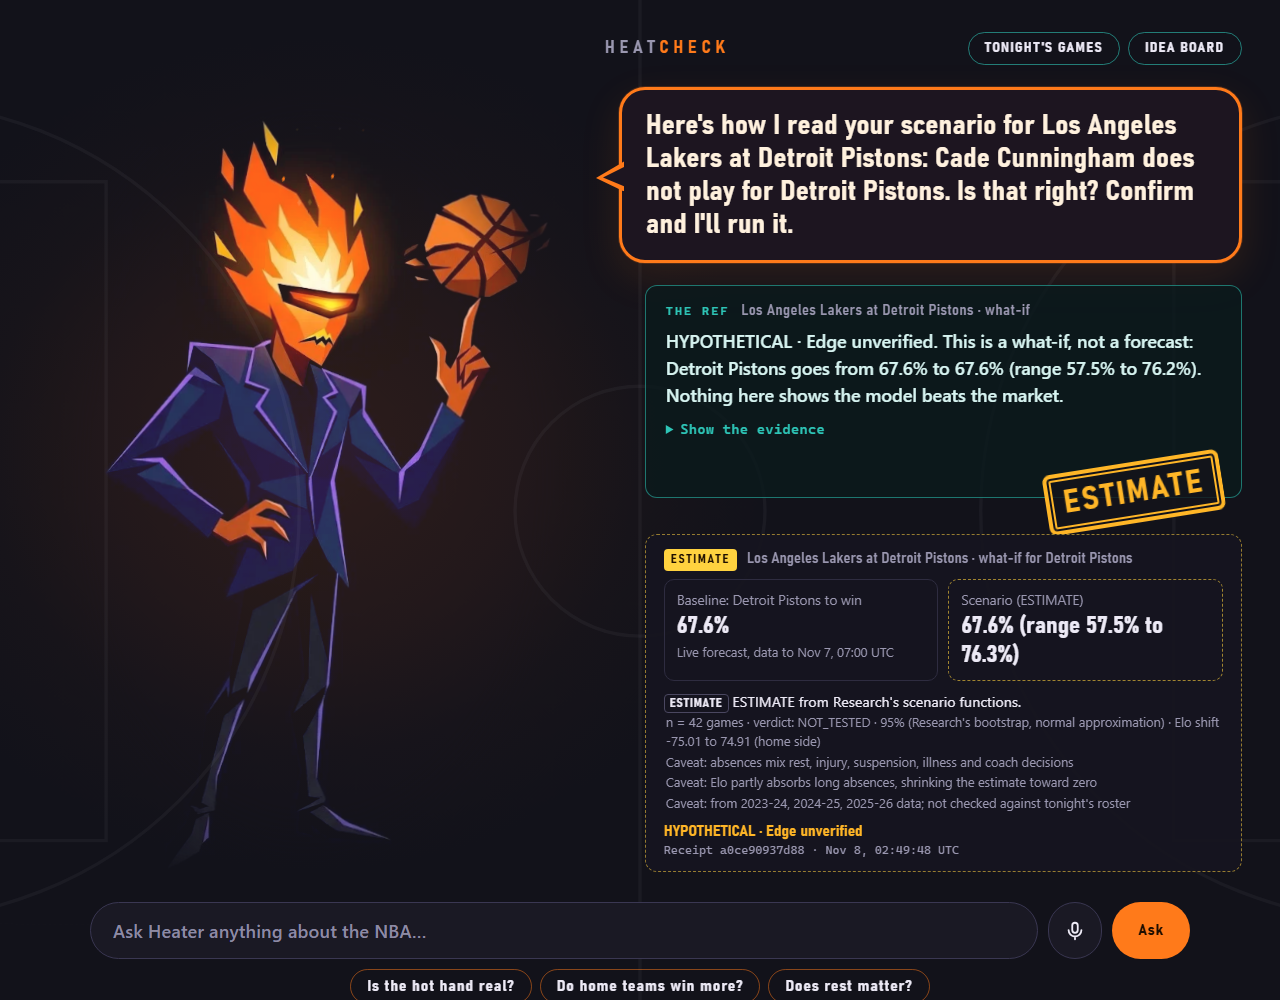
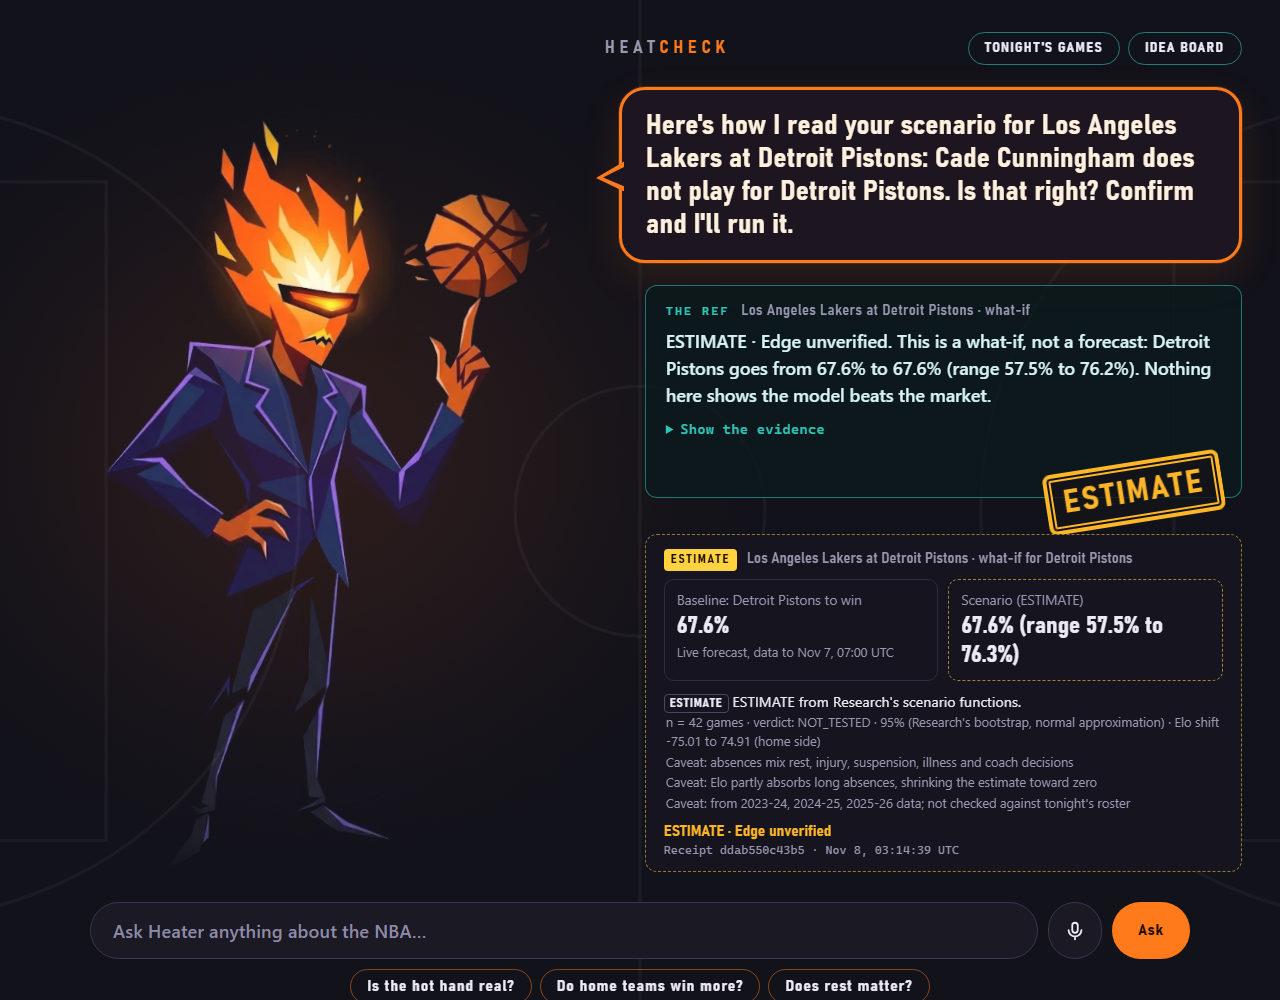
What-if badge, verdict and Ref line use the stamp's word; drop HYPOTHETICAL; add number_source
- Verdict is "<STAMP> · Edge unverified" (ESTIMATE / YOUR ASSUMPTION / SAMPLE / NO NUMBER) and the
  Ref line starts with it; the panel badge, scenario label and drawer label use the same word.
  "HYPOTHETICAL" no longer appears in the what-if panel or Ref line (CSS class names aside).
- A user's market price: shown as "Your market price", effect label YOUR ASSUMPTION; Elo model
  recalculation: effect label ESTIMATE. Read-back before confirmation is badged CONFIRM (no number).
  API field names unchanged (hypothetical_price, HYPOTHETICAL_PRICE effect type).
- API adds number_source "DATA" | "USER" | null; the page shows the server's stamp and shows NO
  NUMBER if stamp and number_source disagree. Ledger identity records stamp and number_source.
- Browser (demo --no-llm --recorded-market): own-box player-out ESTIMATE/DATA; typed 5% assumption
  YOUR ASSUMPTION/USER; neutral floor ESTIMATE/DATA; typed 30% price YOUR ASSUMPTION/USER. Page
  stamp = panel badge = API stamp in all four; no HYPOTHETICAL in any Ref line; console empty.
- SCENARIO_EFFECTS_CONTRACT: wording section (supersedes the old verdict wording in Research's §5).
- Checks: scaffold PASS; ruff; pytest 652 passed, 29 skipped, 16 xfailed; apps/web unittest OK; node 79.

Changed region(s): [[0.5, 0.31, 0.9375, 0.403], [0.5312, 0.806, 0.6875, 0.868]]

diff --git a/apps/web/web/whatif/whatif.js b/apps/web/web/whatif/whatif.js
@@ -34,10 +34,10 @@ export function confirmBody(it) {
 const pct = (p) => `${(Math.round(Number(p) * 1000) / 10).toFixed(1)}%`;
 
 export const TYPE_LABEL = {
-  MODEL_RECALC: "MODEL RECALCULATED",
+  MODEL_RECALC: "ESTIMATE",  // the forecast's own Elo model, recalculated: a number from data
   ESTIMATE: "ESTIMATE",
   YOUR_ASSUMPTION: "YOUR ASSUMPTION",
-  HYPOTHETICAL_PRICE: "HYPOTHETICAL PRICE",
+  HYPOTHETICAL_PRICE: "YOUR ASSUMPTION",  // a market price the user supplied
   NO_NUMBER: "NO NUMBER",
   FAILED_TEST: "FAILED OUR TEST",
 };
@@ -46,8 +46,11 @@ export const TYPE_LABEL = {
  *  data, YOUR ASSUMPTION when it depends on a number the user supplied, SAMPLE, or NO NUMBER. The page never
  *  decides it; an answer without a known stamp shows NO NUMBER. */
 export const STAMPS = { ESTIMATE: "insufficient", "YOUR ASSUMPTION": "insufficient", SAMPLE: "blocked", "NO NUMBER": "blocked" };
+const SOURCE_STAMP = { DATA: "ESTIMATE", USER: "YOUR ASSUMPTION" };
 export function whatifStamp(est) {
-  const text = Object.hasOwn(STAMPS, est?.stamp) ? est.stamp : "NO NUMBER";
+  let text = Object.hasOwn(STAMPS, est?.stamp) ? est.stamp : "NO NUMBER";
+  // The server also says where the number comes from; if the two ever disagree, show no number.
+  if (est && "number_source" in est && SOURCE_STAMP[est.number_source] && SOURCE_STAMP[est.number_source] !== text) text = "NO NUMBER";
   return { text, kind: STAMPS[text] };
 }
 
@@ -83,7 +86,7 @@ export function scenarioView(est) {
     baselineNote: est.baseline ? `Live forecast, data to ${fmtUtc(est.baseline.data_cutoff_utc)}` : (est.sample_note || ""),
     scenarioLabel: `Scenario (${whatifStamp(est).text})`,
     scenario: scen,
-    price: est.hypothetical_price != null ? `Hypothetical market price: ${pct(est.hypothetical_price)}` : "",
+    price: est.hypothetical_price != null ? `Your market price: ${pct(est.hypothetical_price)}` : "",
     effects,
     flags,
     verdict: est.verdict,
@@ -103,7 +106,7 @@ export function renderInterpretation(root, it, { onConfirm, onCancel } = {}) {
   root.replaceChildren();
   root.hidden = false;
   const head = el("header", "scn-head");
-  head.append(el("span", "scn-badge", "HYPOTHETICAL"), el("span", "scn-title", `${it.game} · how Heater read it`));
+  head.append(el("span", "scn-badge", "CONFIRM"), el("span", "scn-title", `${it.game} · how Heater read it`));
   root.append(head);
   const ul = el("ul", "scn-list");
   for (const line of it.interpretation || []) ul.append(el("li", "", line));

diff --git a/apps/web/web/demo.js b/apps/web/web/demo.js
@@ -565,7 +565,7 @@ async function runScenario(question, gameId) {
   });
 }
 
-/** After confirmation: the Ref runs it; baseline vs scenario side by side, marked HYPOTHETICAL. */
+/** After confirmation: the Ref runs it; baseline vs scenario side by side, marked with the server's stamp. */
 async function runEstimate(it) {
   if (state.busy) return;
   state.busy = true;

diff --git a/heatcheck/agents/scenario.py b/heatcheck/agents/scenario.py
@@ -24,7 +24,8 @@ Scenario flow:
    - MARKET_PRICE is a hypothetical market price; it changes the comparison, not the forecast.
    Effects that failed Research's tests are shown with that verdict and left out of the total.
    The Challenger checks double counting, sample size and staleness. The Ref verdict is always
-   "HYPOTHETICAL · Edge unverified": a scenario is never evidence that the model beats the market.
+   "<STAMP> · Edge unverified" (STAMP = ESTIMATE / YOUR ASSUMPTION / SAMPLE / NO NUMBER): a scenario is
+   never evidence that the model beats the market.
 """
 
 from __future__ import annotations
@@ -41,7 +42,15 @@ FORMAT = "heatcheck-whatif/1"           # Max's free-text what-if (POST /api/sce
 MENU_FORMAT = "heatcheck-scenario/1"    # Experience's per-game scenario list (GET /api/scenario), adopted
 PROTOCOL_VERSION = "scenario-1"
 LANE = "SCENARIO"
-VERDICT = "HYPOTHETICAL · Edge unverified"
+EDGE = "Edge unverified"
+
+
+def verdict_for(stamp: str) -> str:
+    """The Ref's verdict uses the stamp's own word: "ESTIMATE · Edge unverified" etc."""
+    return f"{stamp} · {EDGE}"
+
+
+VERDICT = verdict_for("ESTIMATE")  # preset menu scenarios: always Research's data
 HOME_COURT_ELO = 100.0  # B1 Elo constant, stated in the live forecast's model text
 Z95 = 1.959963984540054  # same constant as Research's combiner
 MIN_N = 30              # same floor as the hot-hand comparison: below this a sample is "small"
@@ -301,7 +310,7 @@ def parse_changes(message: str, row: dict | None) -> list[dict]:
 def describe_change(c: dict, row: dict) -> str:
     team = c.get("team")
     if c["kind"] == "MARKET_PRICE":
-        return f"The market prices {team or row['home_team']} at {c['price'] * 100:.1f}% (a hypothetical price)."
+        return f"The market prices {team or row['home_team']} at {c['price'] * 100:.1f}% (your price)."
     if c["kind"] == "VENUE_NEUTRAL":
         return "The game is played on a neutral floor: no home court."
     if c["kind"] == "HOME_AWAY_SWAP":
@@ -356,7 +365,7 @@ def parse_scenario(message: str, row: dict, forecast_sha256: str) -> dict:
             "forecast_sha256": forecast_sha256, "changes": changes, "interpretation": lines,
             "interpretation_id": interpretation_id(row["game_id"], forecast_sha256, changes, focus),
             "message_sha256": hashlib.sha256(message.encode("utf-8")).hexdigest(),
-            "heater_text": heater, "label": "HYPOTHETICAL"}
+            "heater_text": heater, "label": "READ_BACK"}
 
 
 class ConfirmationError(ValueError):
@@ -573,7 +582,7 @@ def estimate_scenario(changes: list[dict], row: dict, forecast_doc: dict, is_sam
         team = c.get("team") or focus
         tsign = 1.0 if team == home else -1.0
         if k == "MARKET_PRICE":
-            effects.append(Effect(c, "HYPOTHETICAL_PRICE", f"Hypothetical market price {_pct(c['price'])} for "
+            effects.append(Effect(c, "HYPOTHETICAL_PRICE", f"Your market price {_pct(c['price'])} for "
                                   f"{c.get('team') or focus}; it changes the comparison, not the forecast.",
                                   included=can_number))
         elif k in ("VENUE_NEUTRAL", "HOME_AWAY_SWAP"):
@@ -676,11 +685,14 @@ def estimate_scenario(changes: list[dict], row: dict, forecast_doc: dict, is_sam
     model_changes = [e for e in effects if e.kind_label != "HYPOTHETICAL_PRICE"]
     if scen is None and not reasons and model_changes:
         reasons = ["none of these changes can be quantified with the current model"]
-    ref = VERDICT + ". "
+    eff_dicts = [e.as_dict() for e in effects]
+    source = number_source(eff_dicts, scen, is_sample)
+    stamp = stamp_for(eff_dicts, scen, is_sample)
+    ref = verdict_for(stamp) + ". "
     shown = scen["p"] if scen is not None else baseline
     if price is not None and not reasons:
         rel = "above" if shown > price else "below" if shown < price else "level with"
-        ref += (f"Against a hypothetical market price of {_pct(price)}, the "
+        ref += (f"Against your market price of {_pct(price)}, the "
                 f"{'scenario' if scen is not None else 'unchanged forecast'} for {focus} sits "
                 f"{abs(shown - price) * 100:.1f} points {rel} it. ")
     if scen is not None:
@@ -694,19 +706,30 @@ def estimate_scenario(changes: list[dict], row: dict, forecast_doc: dict, is_sam
         ref += "Watch out: " + "; ".join(flags) + ". "
     ref += "Nothing here shows the model beats the market."
     return {
-        "format": FORMAT, "label": "HYPOTHETICAL", "game_id": row["game_id"], "game": _game_label(row),
+        "format": FORMAT, "label": stamp, "game_id": row["game_id"], "game": _game_label(row),
         "focus_team": focus, "as_of_utc": as_of_utc, "is_sample": is_sample,
         "baseline": None if is_sample else {"p": round(baseline, 4), "source": "live forecast",
                                             "data_cutoff_utc": forecast_doc["data_cutoff_utc"]},
         "scenario": scen, "hypothetical_price": price,
         "effects": [e.as_dict() for e in effects], "challenger_checks": [c.as_dict() for c in checks],
-        "verdict": VERDICT, "ref_text": ref.strip(), "sample_note": sample_note,
+        "verdict": verdict_for(stamp), "ref_text": ref.strip(), "sample_note": sample_note,
         "provider": provider.identity,
-        "stamp": stamp_for([e.as_dict() for e in effects], scen, is_sample),
+        "stamp": stamp, "number_source": source,
     }
 
 
 USER_SUPPLIED = ("YOUR_ASSUMPTION", "HYPOTHETICAL_PRICE")
+
+
+def number_source(effects: list[dict], scenario: dict | None, is_sample: bool) -> str | None:
+    """Where the shown number comes from: "USER" when it depends on any number the user supplied
+    (their own adjustment or a market price), "DATA" when only on data (Research's estimates or the
+    Elo model), None for a SAMPLE forecast or when there is no number."""
+    if is_sample:
+        return None
+    if any(e["type"] in USER_SUPPLIED and e["included"] for e in effects):
+        return "USER"
+    return "DATA" if scenario is not None else None
 
 
 def stamp_for(effects: list[dict], scenario: dict | None, is_sample: bool) -> str:
@@ -717,9 +740,8 @@ def stamp_for(effects: list[dict], scenario: dict | None, is_sample: bool) -> st
     NO NUMBER when nothing could be quantified."""
     if is_sample:
         return "SAMPLE"
-    if any(e["type"] in USER_SUPPLIED and e["included"] for e in effects):
-        return "YOUR ASSUMPTION"
-    return "ESTIMATE" if scenario is not None else "NO NUMBER"
+    return {"USER": "YOUR ASSUMPTION", "DATA": "ESTIMATE"}.get(number_source(effects, scenario, False),
+                                                                "NO NUMBER")
 
 
 def scenario_identity(est: dict, changes: list[dict], interp_id: str, forecast_sha256: str,
@@ -732,7 +754,7 @@ def scenario_identity(est: dict, changes: list[dict], interp_id: str, forecast_s
             "scenario": est["scenario"], "hypothetical_price": est["hypothetical_price"],
             "effects": est["effects"], "challenger_checks": est["challenger_checks"],
             "provider": est["provider"], "referee": REF_IDENTITY, "verdict": est["verdict"],
-            "label": "HYPOTHETICAL", "outcome": None}
+            "label": est["stamp"], "number_source": est["number_source"], "outcome": None}
 
 
 # ------------------------------------------------------------------ GET /api/scenario (heatcheck-scenario/1)

diff --git a/reports/max/2026-11-08-scenarios-routing/stamps/shoot_stamps3.py b/reports/max/2026-11-08-scenarios-routing/stamps/shoot_stamps3.py
@@ -1,0 +1,73 @@
+import json
+import sys
+from pathlib import Path
+
+from playwright.sync_api import sync_playwright
+
+out = Path(sys.argv[1])
+out.mkdir(parents=True, exist_ok=True)
+DONE = "() => document.body.dataset.phase === 'done'"
+NOT_DONE = "() => document.body.dataset.phase !== 'done'"
+URL = "http://127.0.0.1:8765/demo.html?voice=0"
+
+
+def confirm_and_read(page, tag, api):
+    page.wait_for_function(DONE, timeout=90000)
+    page.get_by_role("button", name="Yes").first.click()
+    page.wait_for_function(NOT_DONE, timeout=30000)
+    page.wait_for_function(DONE, timeout=90000)
+    page.wait_for_timeout(1200)
+    page.screenshot(path=str(out / f"{tag}.png"))
+    stamp = page.locator("#stamp").inner_text() if page.locator("#stamp").is_visible() else "(none)"
+    badge = page.locator(".scn-badge").last.inner_text()
+    server = api[-1]["stamp"] if api else "(no response)"
+    ref = page.locator("#ref-text").inner_text()
+    print(f"{tag}: page stamp {stamp!r}, panel badge {badge!r}, API stamp {server!r}, source {api[-1].get('number_source') if api else None!r}")
+    print(f"   REF {ref[:120]!r}  HYPOTHETICAL-in-ref={'HYPOTHETICAL' in ref.upper()}")
+    return stamp, badge, server
+
+
+with sync_playwright() as p:
+    b = p.chromium.launch()
+    page = b.new_page(viewport={"width": 1280, "height": 1000})
+    console, api = [], []
+    page.on("console", lambda m: console.append(m.text))
+    page.on("pageerror", lambda e: console.append(f"PAGEERROR {e}"))
+
+    def on_resp(r):
+        if r.url.endswith("/api/scenario/estimate") and r.status == 200:
+            api.append(json.loads(r.text()))
+    page.on("response", on_resp)
+    results = []
+
+    # 1. Experience's "Your own scenario" box on the Detroit card: data -> ESTIMATE
+    page.goto(URL, wait_until="networkidle")
+    page.locator("#btn-board").click()
+    page.wait_for_selector(".mcard .mcard-verdict", timeout=90000)
+    card = page.locator(".mcard").filter(has_text="Detroit Pistons").first
+    card.get_by_role("button", name="What if").first.click()
+    card.locator(".scen-own-input").wait_for(timeout=30000)
+    card.locator(".scen-own-input").fill("What if Detroit were without Cade Cunningham?")
+    card.locator(".scen-own-go").click()
+    results.append(confirm_and_read(page, "own_box_player_out", api))
+
+    # 2. typed in the main box, user's number -> YOUR ASSUMPTION
+    page.goto(URL, wait_until="networkidle")
+    page.locator("#q").fill("Assume it costs Boston 5%")
+    page.locator("#go").click()
+    results.append(confirm_and_read(page, "typed_assumption", api))
+
+    # 3. typed, Elo model -> ESTIMATE
+    page.goto(URL, wait_until="networkidle")
+    page.locator("#q").fill("What if Boston and Milwaukee played on a neutral floor?")
+    page.locator("#go").click()
+    results.append(confirm_and_read(page, "typed_neutral", api))
+
+    page.goto(URL, wait_until="networkidle")
+    page.locator("#q").fill("What if the Lakers were priced at 30% on Polymarket?")
+    page.locator("#go").click()
+    results.append(confirm_and_read(page, "typed_price", api))
+
+    print("AGREE", all(s == bd == sv for s, bd, sv in results))
+    print("CONSOLE", console)
+    b.close()

diff --git a/tests/integration/test_scenario.py b/tests/integration/test_scenario.py
@@ -29,6 +29,7 @@ from heatcheck.agents.scenario import (
     parse_changes,
     parse_scenario,
     route,
+    verdict_for,
 )
 from heatcheck.api.dialogue_server import ScenarioConfig, serve
 from heatcheck.ledger.evidence import EvidenceLedger
@@ -100,7 +101,7 @@ def test_parse_each_kind():
 
 def test_interpretation_needs_confirmation_and_shows_no_number():
     it = parse_scenario("What if Cleveland played on a neutral floor?", G["191"], SHA)
-    assert it["status"] == "NEEDS_CONFIRMATION" and it["label"] == "HYPOTHETICAL"
+    assert it["status"] == "NEEDS_CONFIRMATION" and it["label"] == "READ_BACK"
     assert it["interpretation"] == ["The game is played on a neutral floor: no home court."]
     assert "%" not in it["heater_text"] and "Confirm" in it["heater_text"]
     assert parse_scenario("tell me a story", G["191"], SHA)["status"] == "NO_CHANGES"
@@ -194,7 +195,7 @@ def test_stub_gives_no_number_for_player_out_and_rest():
     e = est("Cleveland without Donovan Mitchell", G["191"])
     assert e["scenario"] is None and e["effects"][0]["type"] == "NO_NUMBER"
     assert "Can't quantify this with the current model; it would need" in e["effects"][0]["text"]
-    assert e["provider"]["version"] == "STUB" and e["verdict"] == VERDICT
+    assert e["provider"]["version"] == "STUB" and e["verdict"] == verdict_for("NO NUMBER")
 
 
 class FakeResearch(ResearchStub):
@@ -262,7 +263,9 @@ def test_forecast_staleness_flag():
 def test_ref_never_claims_an_edge_or_a_bet(msg):
     row = route(msg, GAMES, NOW)["game_id"]
     e = est(msg, next(g for g in GAMES if g["game_id"] == row))
-    assert e["ref_text"].startswith(VERDICT) and e["label"] == "HYPOTHETICAL"
+    assert e["ref_text"].startswith(verdict_for(e["stamp"])) and e["label"] == e["stamp"]
+    assert "HYPOTHETICAL" not in e["ref_text"].upper() and e["verdict"].endswith("Edge unverified")
+    assert e["number_source"] == {"ESTIMATE": "DATA", "YOUR ASSUMPTION": "USER"}.get(e["stamp"])
     assert not re.search(r"\bbet\b|edge found|guarantee", e["ref_text"], re.I)
 
 
@@ -310,7 +313,7 @@ def test_http_route_parse_confirm_estimate_and_ledger(server):
     code, e = post(base, "/api/scenario/estimate", body)
     assert code == 200 and e["verdict"] == VERDICT and e["scenario"]["p"] < e["baseline"]["p"]
     entry = ledger.get(e["evidence_id"])["identity"]
-    assert entry["lane"] == "SCENARIO" and entry["label"] == "HYPOTHETICAL" and entry["changes"] == it["changes"]
+    assert entry["lane"] == "SCENARIO" and entry["label"] == e["stamp"] and entry["changes"] == it["changes"]
     assert entry["interpretation_id"] == it["interpretation_id"] and entry["outcome"] is None
     # a new forecast file revokes the confirmation
     fc.write_bytes(FORECAST.read_bytes() + b"\n")

diff --git a/heatcheck/api/dialogue_server.py b/heatcheck/api/dialogue_server.py
@@ -256,7 +256,7 @@ def run_route(req: dict, live_forecast: Path | None, clock=None) -> dict:
 def run_scenario_parse(req: dict, live_forecast: Path | None, clock=None) -> tuple[int, dict]:
     fc = live_forecast_payload(live_forecast)
     if fc["status"] != "OK":
-        return 200, {"status": "NO_FORECAST", "label": "HYPOTHETICAL",
+        return 200, {"status": "NO_FORECAST", "label": "NO NUMBER",
                      "heater_text": f"I can't run a what-if without a forecast ({fc['reason']})."}
     games = fc["forecast"]["games"]
     gid = req.get("game_id")
@@ -268,7 +268,7 @@ def run_scenario_parse(req: dict, live_forecast: Path | None, clock=None) -> tup
         row, cands = pick_game(req["message"], games, _now_z(clock))
         if row is None:
             names = ", ".join(f"{g['away_team']} at {g['home_team']}" for g in cands[:4])
-            return 200, {"status": "NEEDS_GAME", "label": "HYPOTHETICAL",
+            return 200, {"status": "NEEDS_GAME", "label": "NO NUMBER",
                          "candidates": [g["game_id"] for g in cands],
                          "heater_text": "Which game do you mean? Name a team playing tonight"
                          + (f" ({names})." if names else ".")}

diff --git a/docs/SCENARIO_EFFECTS_CONTRACT.md b/docs/SCENARIO_EFFECTS_CONTRACT.md
@@ -152,6 +152,14 @@ is refused.
 
 `POST /api/scenario/estimate` returns it as `stamp` (`heatcheck.agents.scenario.stamp_for`); preset
 scenarios carry `label: "ESTIMATE"`. The page never decides the stamp: `whatifStamp(est)` in
-`apps/web/web/whatif/whatif.js` shows the server's value (unknown values show NO NUMBER). The Ref
-line keeps the verdict "HYPOTHETICAL · Edge unverified". Tests: `tests/integration/test_scenario.py`
+`apps/web/web/whatif/whatif.js` shows the server's value (unknown values show NO NUMBER).
+The response also carries `number_source`: "DATA" (ESTIMATE), "USER" (YOUR ASSUMPTION) or null; the
+page shows NO NUMBER if the two ever disagree.
+
+Same word everywhere (user's instruction, 8 Nov ~04:10): the what-if panel badge, the Ref verdict
+`"<STAMP> · Edge unverified"` (e.g. "ESTIMATE · Edge unverified", "YOUR ASSUMPTION · Edge
+unverified") and the start of the Ref line all use the stamp's word. "HYPOTHETICAL" is no longer
+shown in the what-if panel or Ref line; this supersedes the "HYPOTHETICAL · Edge unverified" wording
+in §5 above. A user's market price is shown as "Your market price" (API field names such as
+`hypothetical_price` are unchanged). The read-back before confirmation is badged CONFIRM (no number). Tests: `tests/integration/test_scenario.py`
 (`test_stamp_rule_…`), `apps/web/tests/whatif.test.mjs` (fixture generated from the server code).
